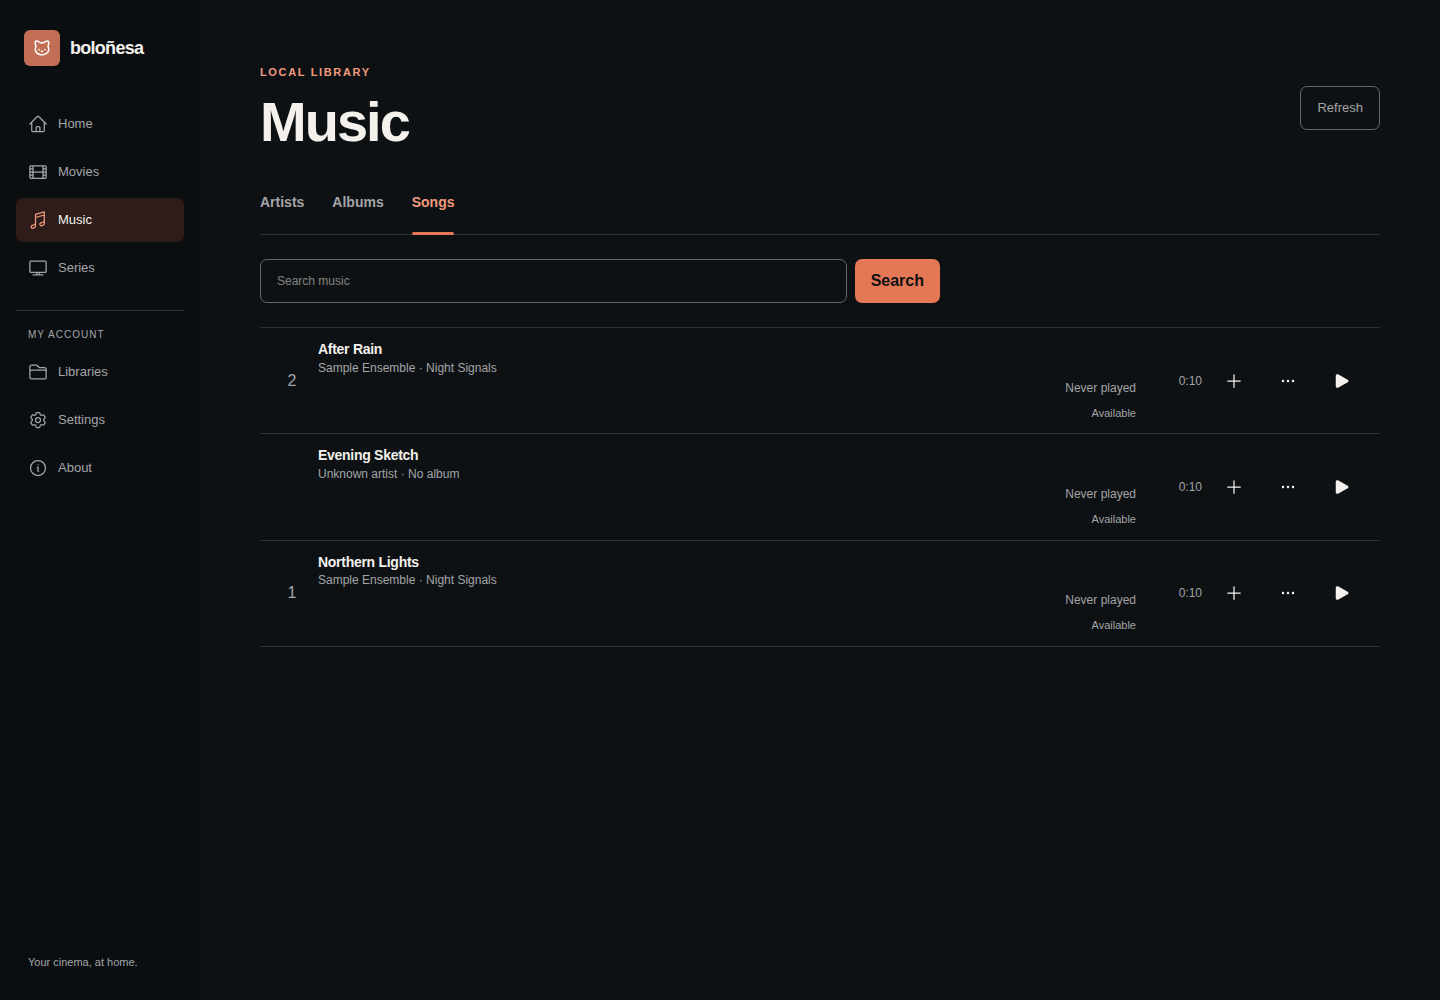
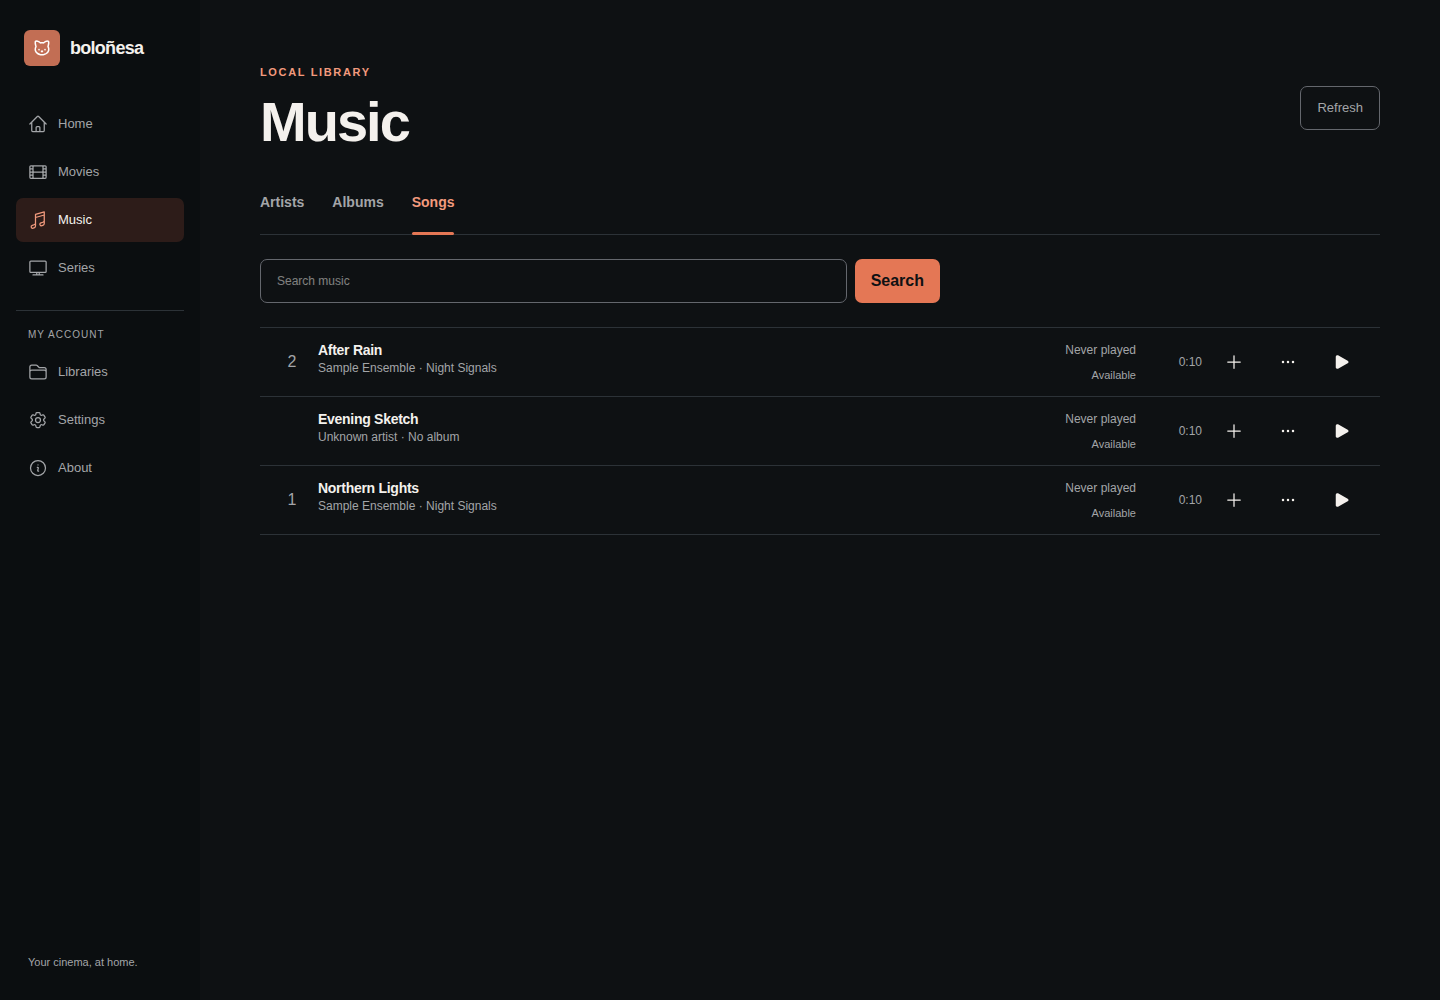
Align music track rows across screen sizes

diff --git a/assets/css/music.css b/assets/css/music.css
@@ -374,6 +374,8 @@
 .music-action-menu summary:focus-visible, .music-action-menu button:focus-visible { outline: 2px solid var(--color-accent-soft); outline-offset: 2px; }
 @media (min-width: 641px) {
  .music-track-row { grid-template-columns: 32px minmax(0, 1fr) 56px 44px 44px 44px; }
+ .music-track-copy { display: grid; grid-template-columns: minmax(0, 1fr) auto; align-items: center; column-gap: 16px; }
+ .music-track-meta { margin-top: 0; }
  .music-track-duration { grid-column: 3; text-align: right; color: var(--color-muted); font-size: 12px; font-variant-numeric: tabular-nums; }
 }
 @media (max-width: 1079px) {
@@ -385,6 +387,7 @@
  .music-player[data-expanded="true"][data-queue-open="true"] .music-up-next { height: 100%; border: 0; padding: 0; background: transparent; }
 }
 @media (max-width: 640px) {
+ .music-track-meta { flex-direction: row; justify-content: flex-start; align-items: center; gap: 4px 8px; }
  .music-track-duration { display: none; }
 }
 @media (min-width: 641px) { .music-track-mobile-duration { display: none; } }
